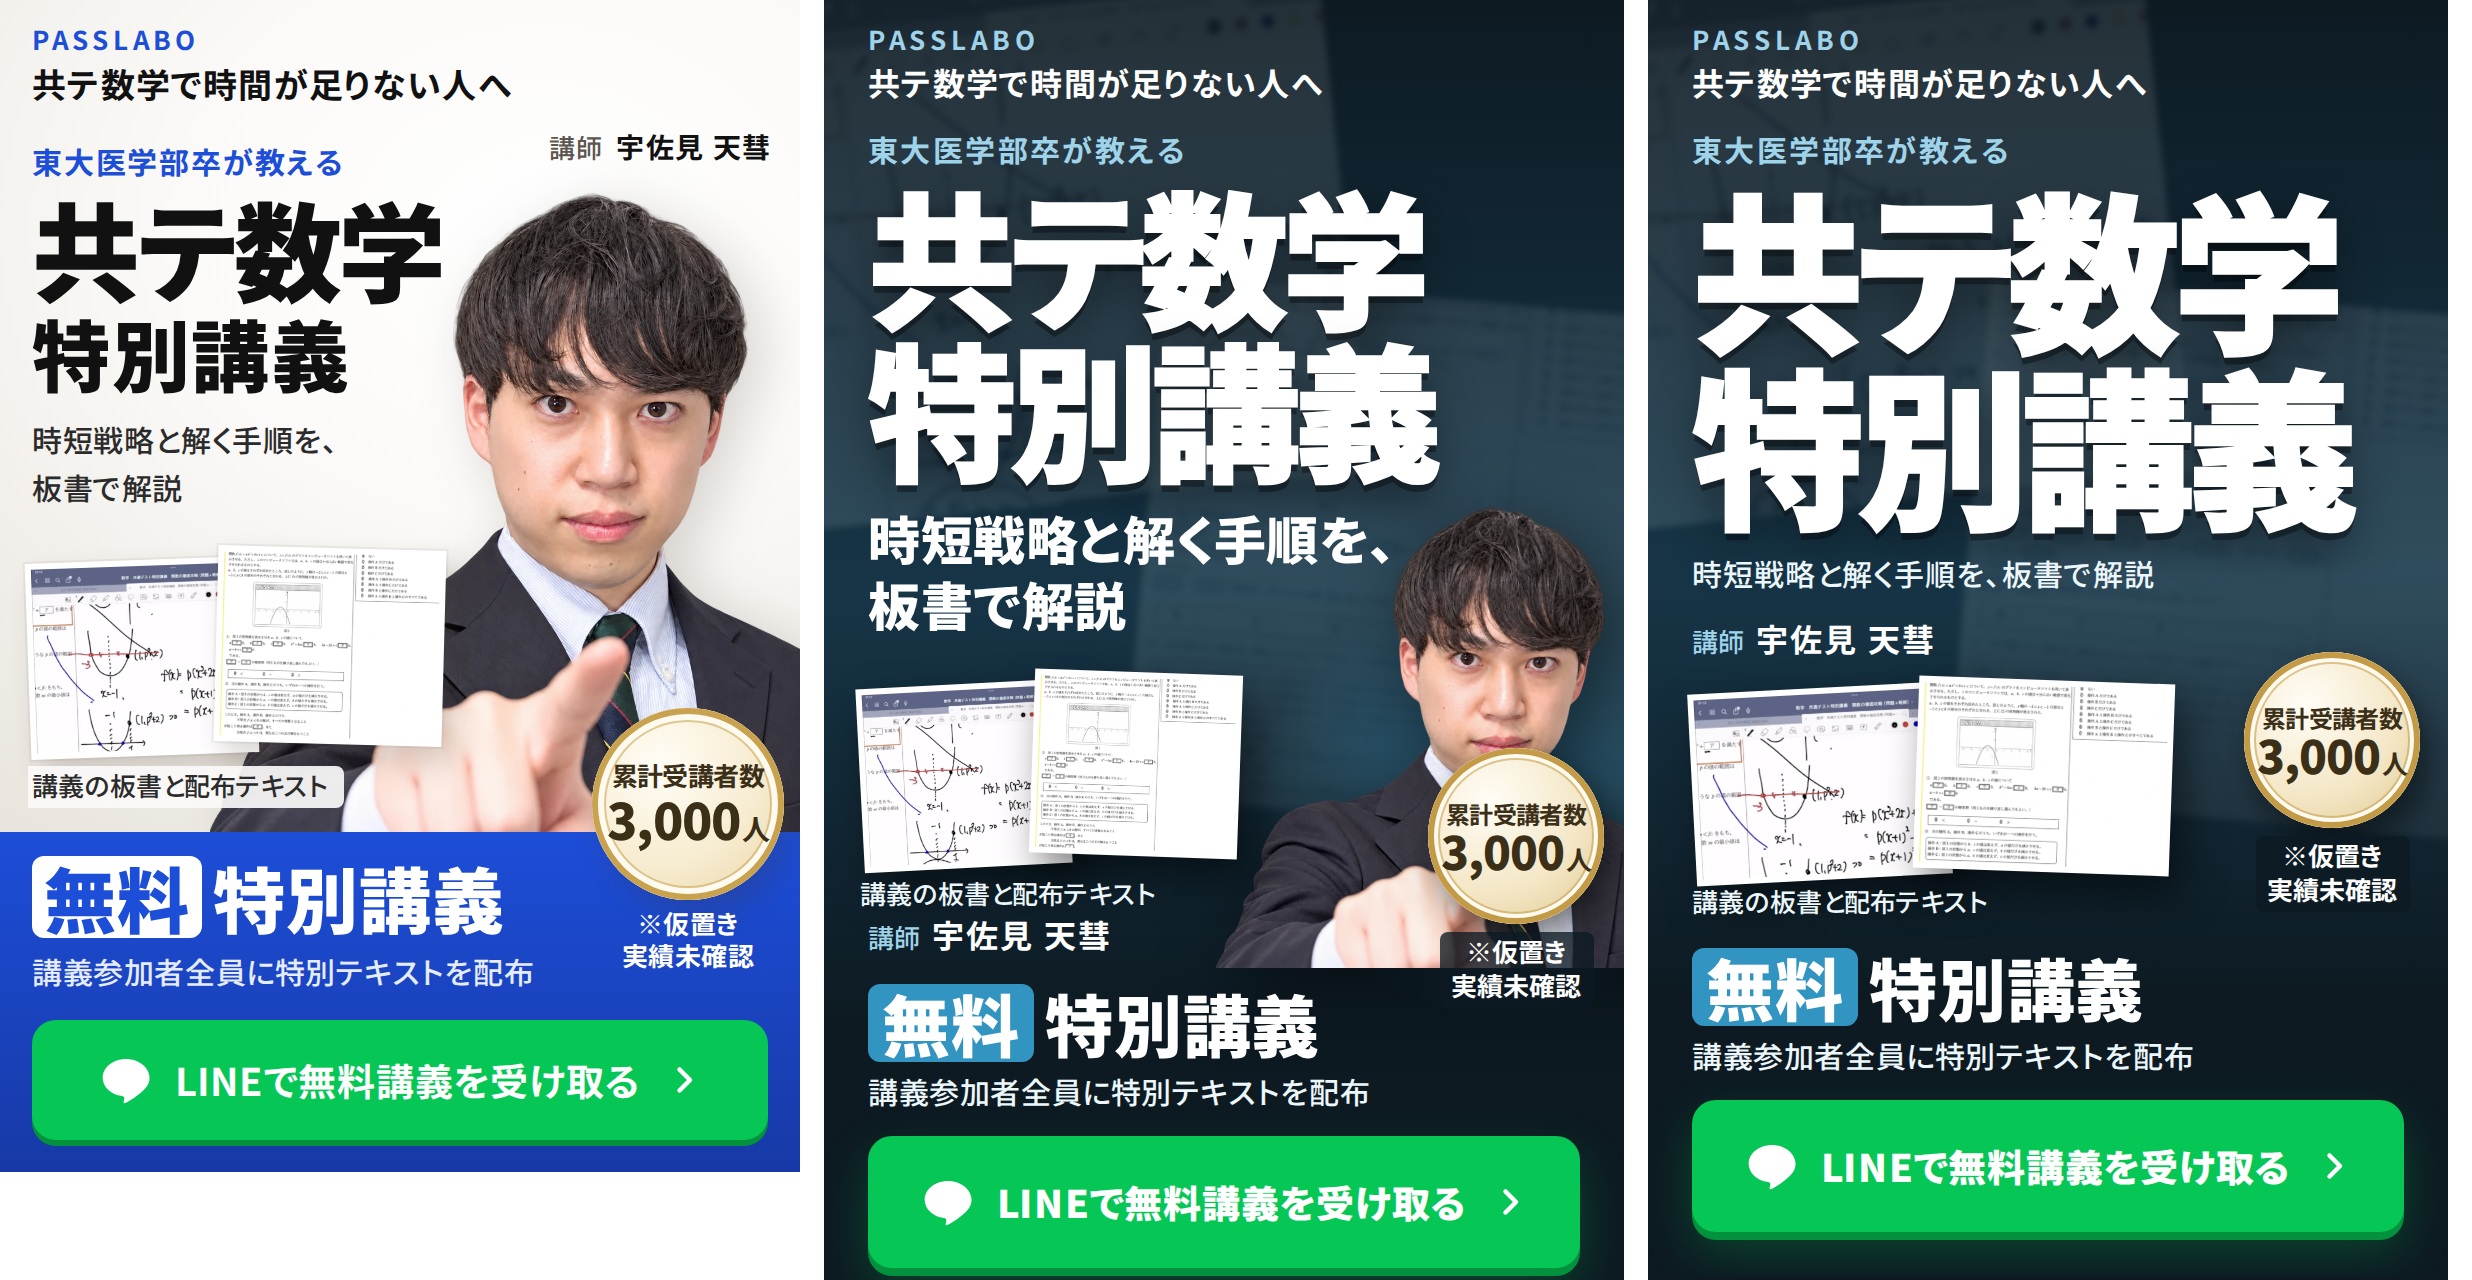
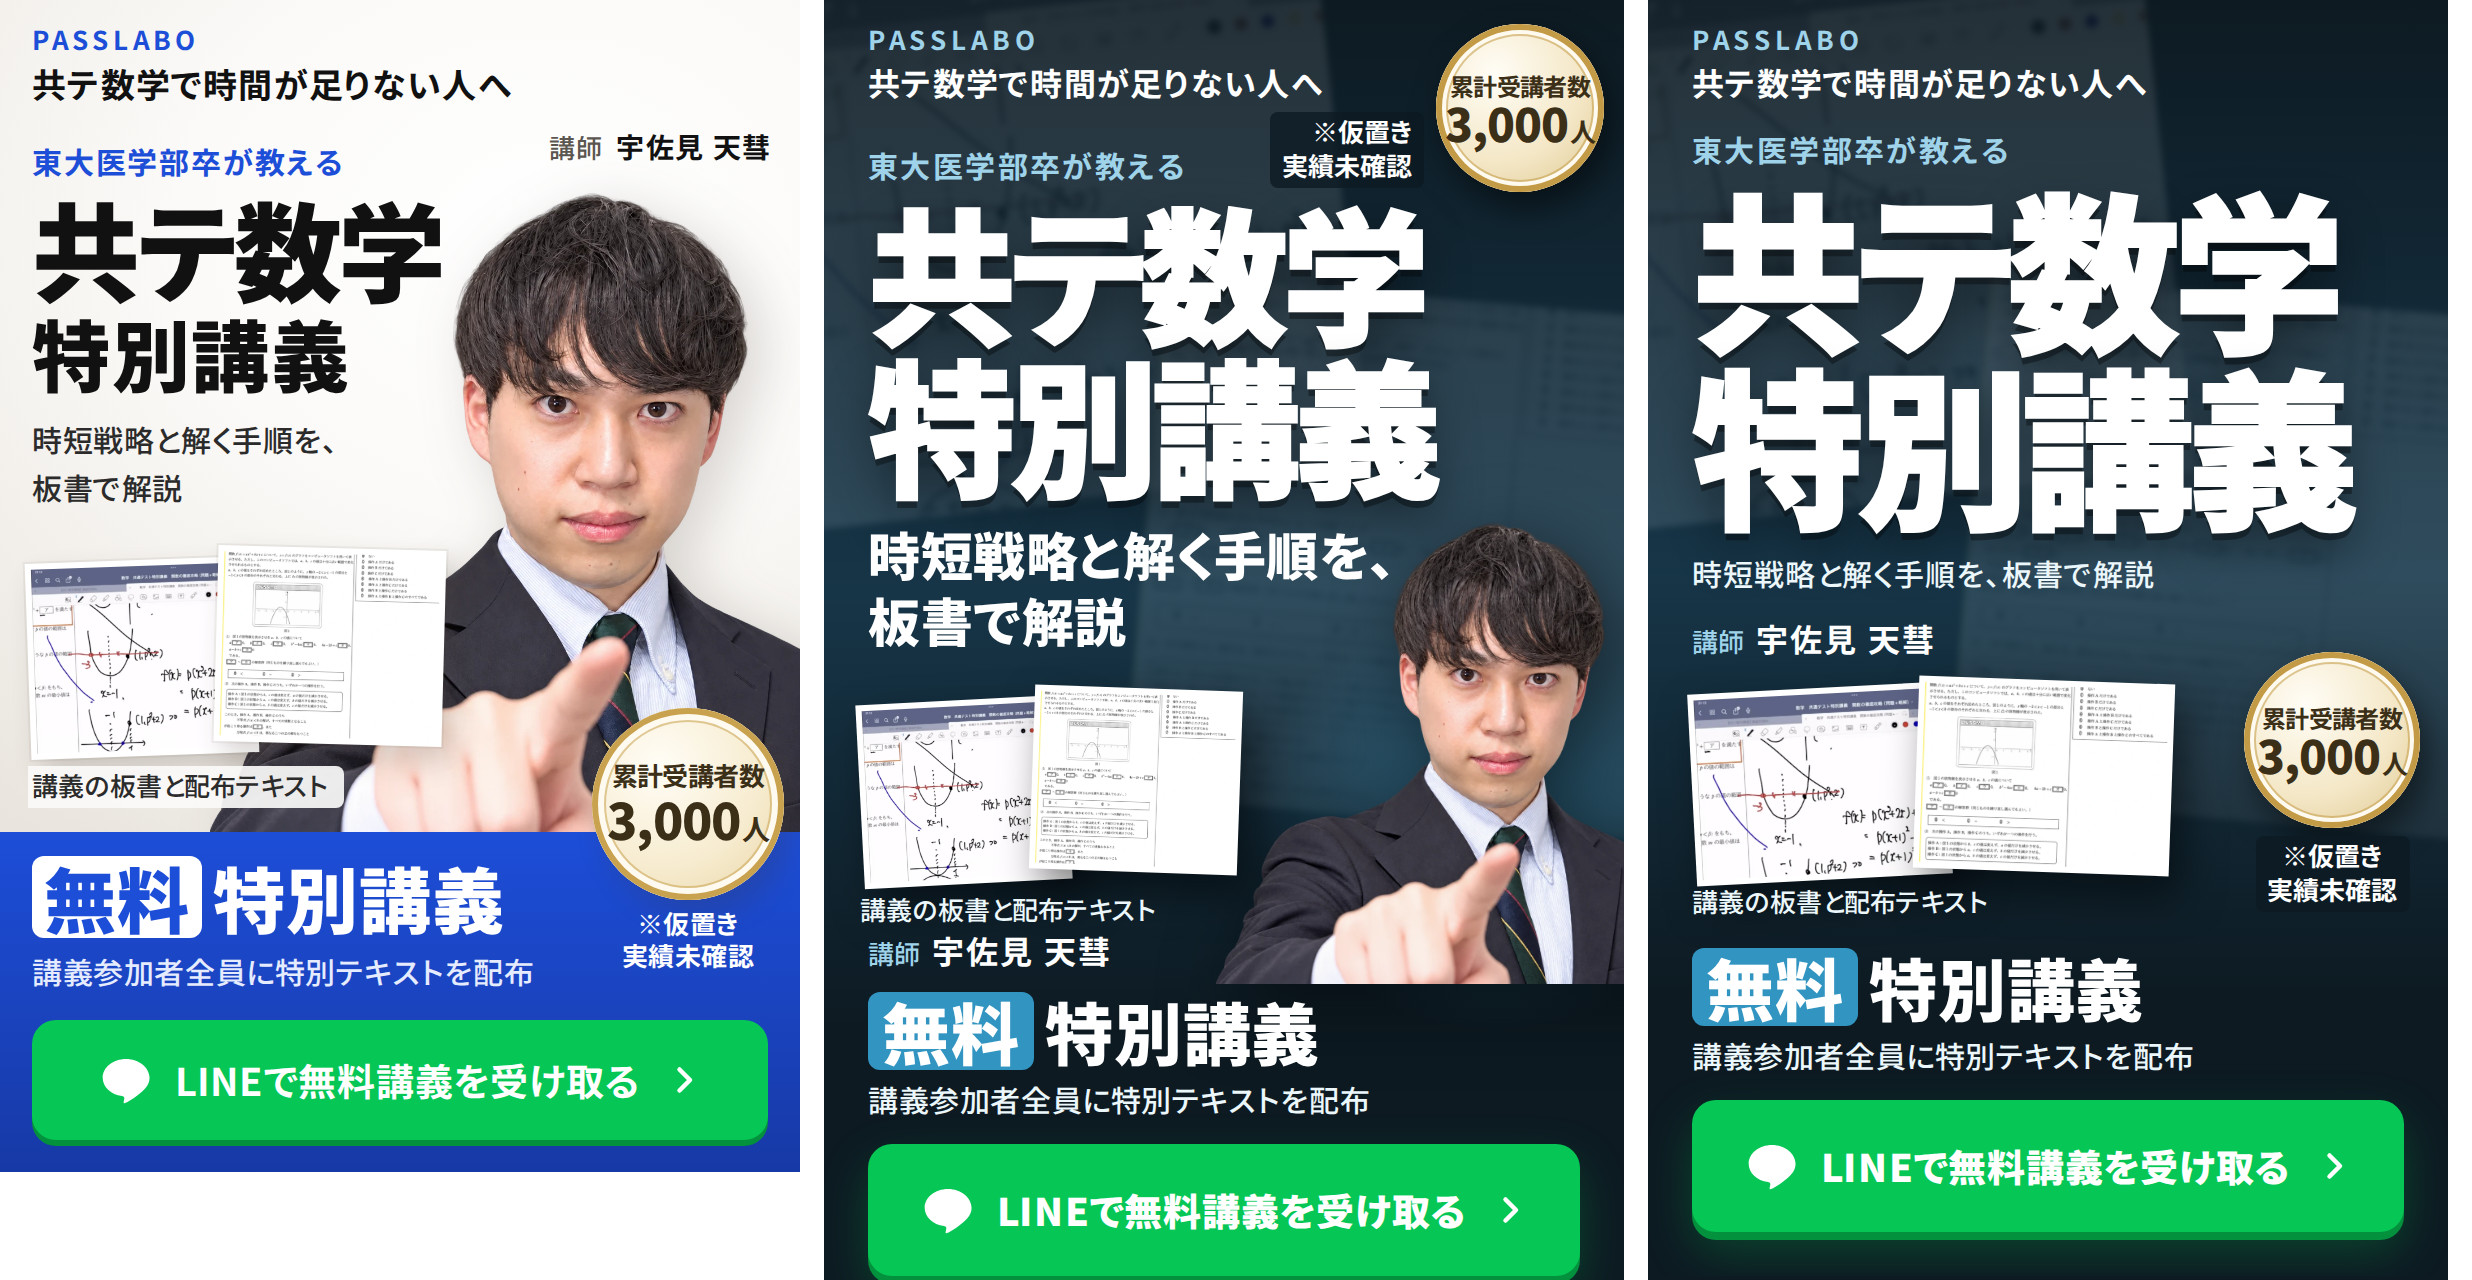
passlabo-fv-variants: A4 with-person: move placeholder badge to its own top-right area, clear of the person
Claude-Session: https://claude.ai/code/session_01Jm6YN5J6YHJuwEcwhF251t

Changed region(s): [[0.3426, 0.0, 0.6541, 1.0]]

diff --git a/passlabo-fv-variants/out/passlabo-fv-a4p.html b/passlabo-fv-variants/out/passlabo-fv-a4p.html
@@ -148,8 +148,9 @@ body[data-variant^="a4"] .review{background:#f4f7f9}
 .f-with .f-sheet{left:86px;top:0;width:104px;height:92px;transform:rotate(2deg)}
 .f-with .f-mats figcaption{top:102px}
 .f-with .f-sign{left:22px;bottom:6px;flex-wrap:nowrap}
-.f-with .f-badge{right:10px;bottom:-20px}
-.f-with .f-offer{padding-top:8px}
+.f-with .f-badge{top:-60px;right:10px;bottom:auto;width:auto;flex-direction:row-reverse;align-items:flex-end;gap:6px}
+.f-with .f-medal{width:84px;height:84px}.f-with .f-note{margin:0 0 2px;align-items:flex-end}
+.f-with .f-offer{padding-top:4px}.f-with .f-cred{margin-top:20px}
 /* 人物なし: タイトルをさらに大きく、教材を前景の主役に。講師名と肩書は残す */
 .f-without .f-hero{height:398px}
 .f-without .f-title{font-size:86px}
@@ -165,7 +166,7 @@ body[data-variant^="a4"] .review{background:#f4f7f9}
 .f-with .f-title{font-size:67px}.f-without .f-title{font-size:78px}
 .f-person{height:226px;right:-70px}
 .f-with .f-sub{font-size:23px}
-.f-with .f-badge{right:6px;bottom:-44px}
+.f-with .f-cred{letter-spacing:.02em;margin-top:22px}.f-with .f-offer{padding-top:4px}
 .f-with .f-mats{transform:scale(.92);transform-origin:0 0}
 .f-without .f-mats{transform:scale(.9);transform-origin:0 0}
 .f-main{font-size:31px}.f-gift{font-size:14px}
@@ -187,7 +188,7 @@ body[data-variant^="a4"] .cta{font-size:17px;padding:0 12px;gap:8px;letter-spaci
 .f-with .f-board,.f-without .f-board{width:190px;height:120px}.f-with .f-sheet,.f-without .f-sheet{left:170px;width:190px;height:120px}
 .f-with .f-mats figcaption,.f-without .f-mats figcaption{top:132px}
 .f-with .f-sign,.f-without .f-sign{left:420px;top:auto;bottom:40px;max-width:none}
-.f-with .f-badge{right:420px;bottom:20px}.f-without .f-badge{right:auto;left:760px;top:auto;bottom:34px;transform:scale(1.2);transform-origin:50% 100%}
+.f-with .f-badge{top:auto;right:auto;left:470px;bottom:96px;flex-direction:row-reverse}.f-without .f-badge{right:auto;left:760px;top:auto;bottom:34px;transform:scale(1.2);transform-origin:50% 100%}
 .f-offer{display:grid;grid-template-columns:auto minmax(0,460px);justify-content:center;align-items:center;column-gap:48px;padding:20px 24px 30px;max-width:1160px;margin:0 auto}
 .f-main,.f-gift{grid-column:1}.f-main{align-self:end;font-size:40px}.f-gift{margin:6px 0 0;align-self:start}.f-offer .cta{grid-column:2;grid-row:1/3}
 }</style></head>
